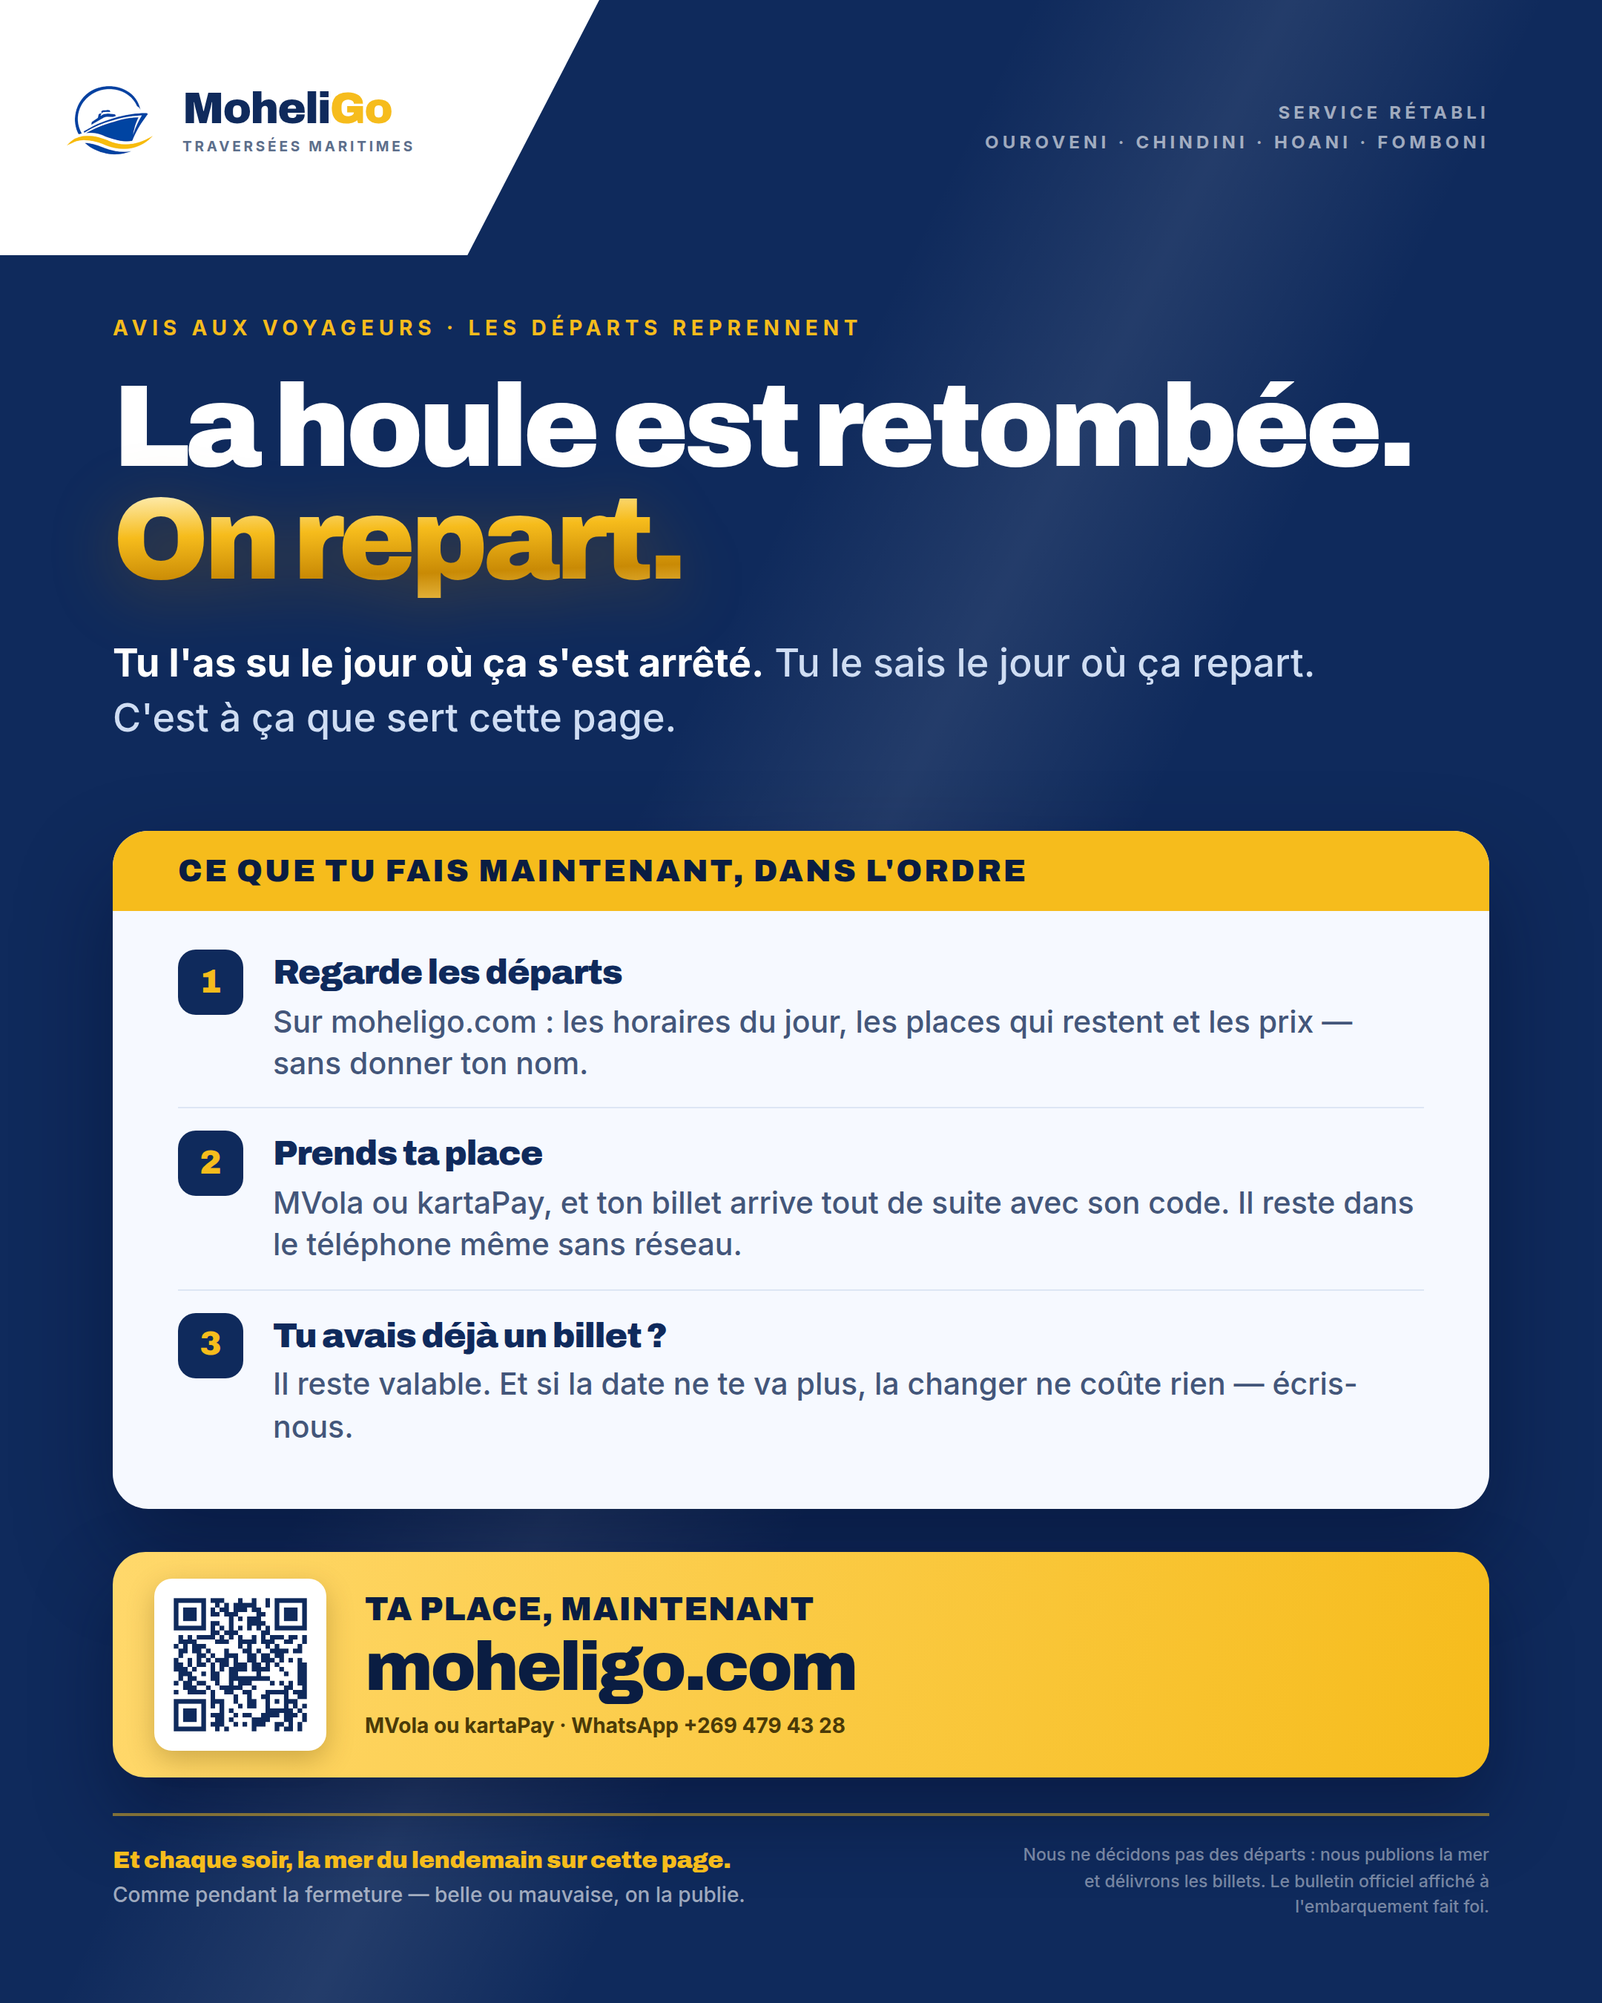
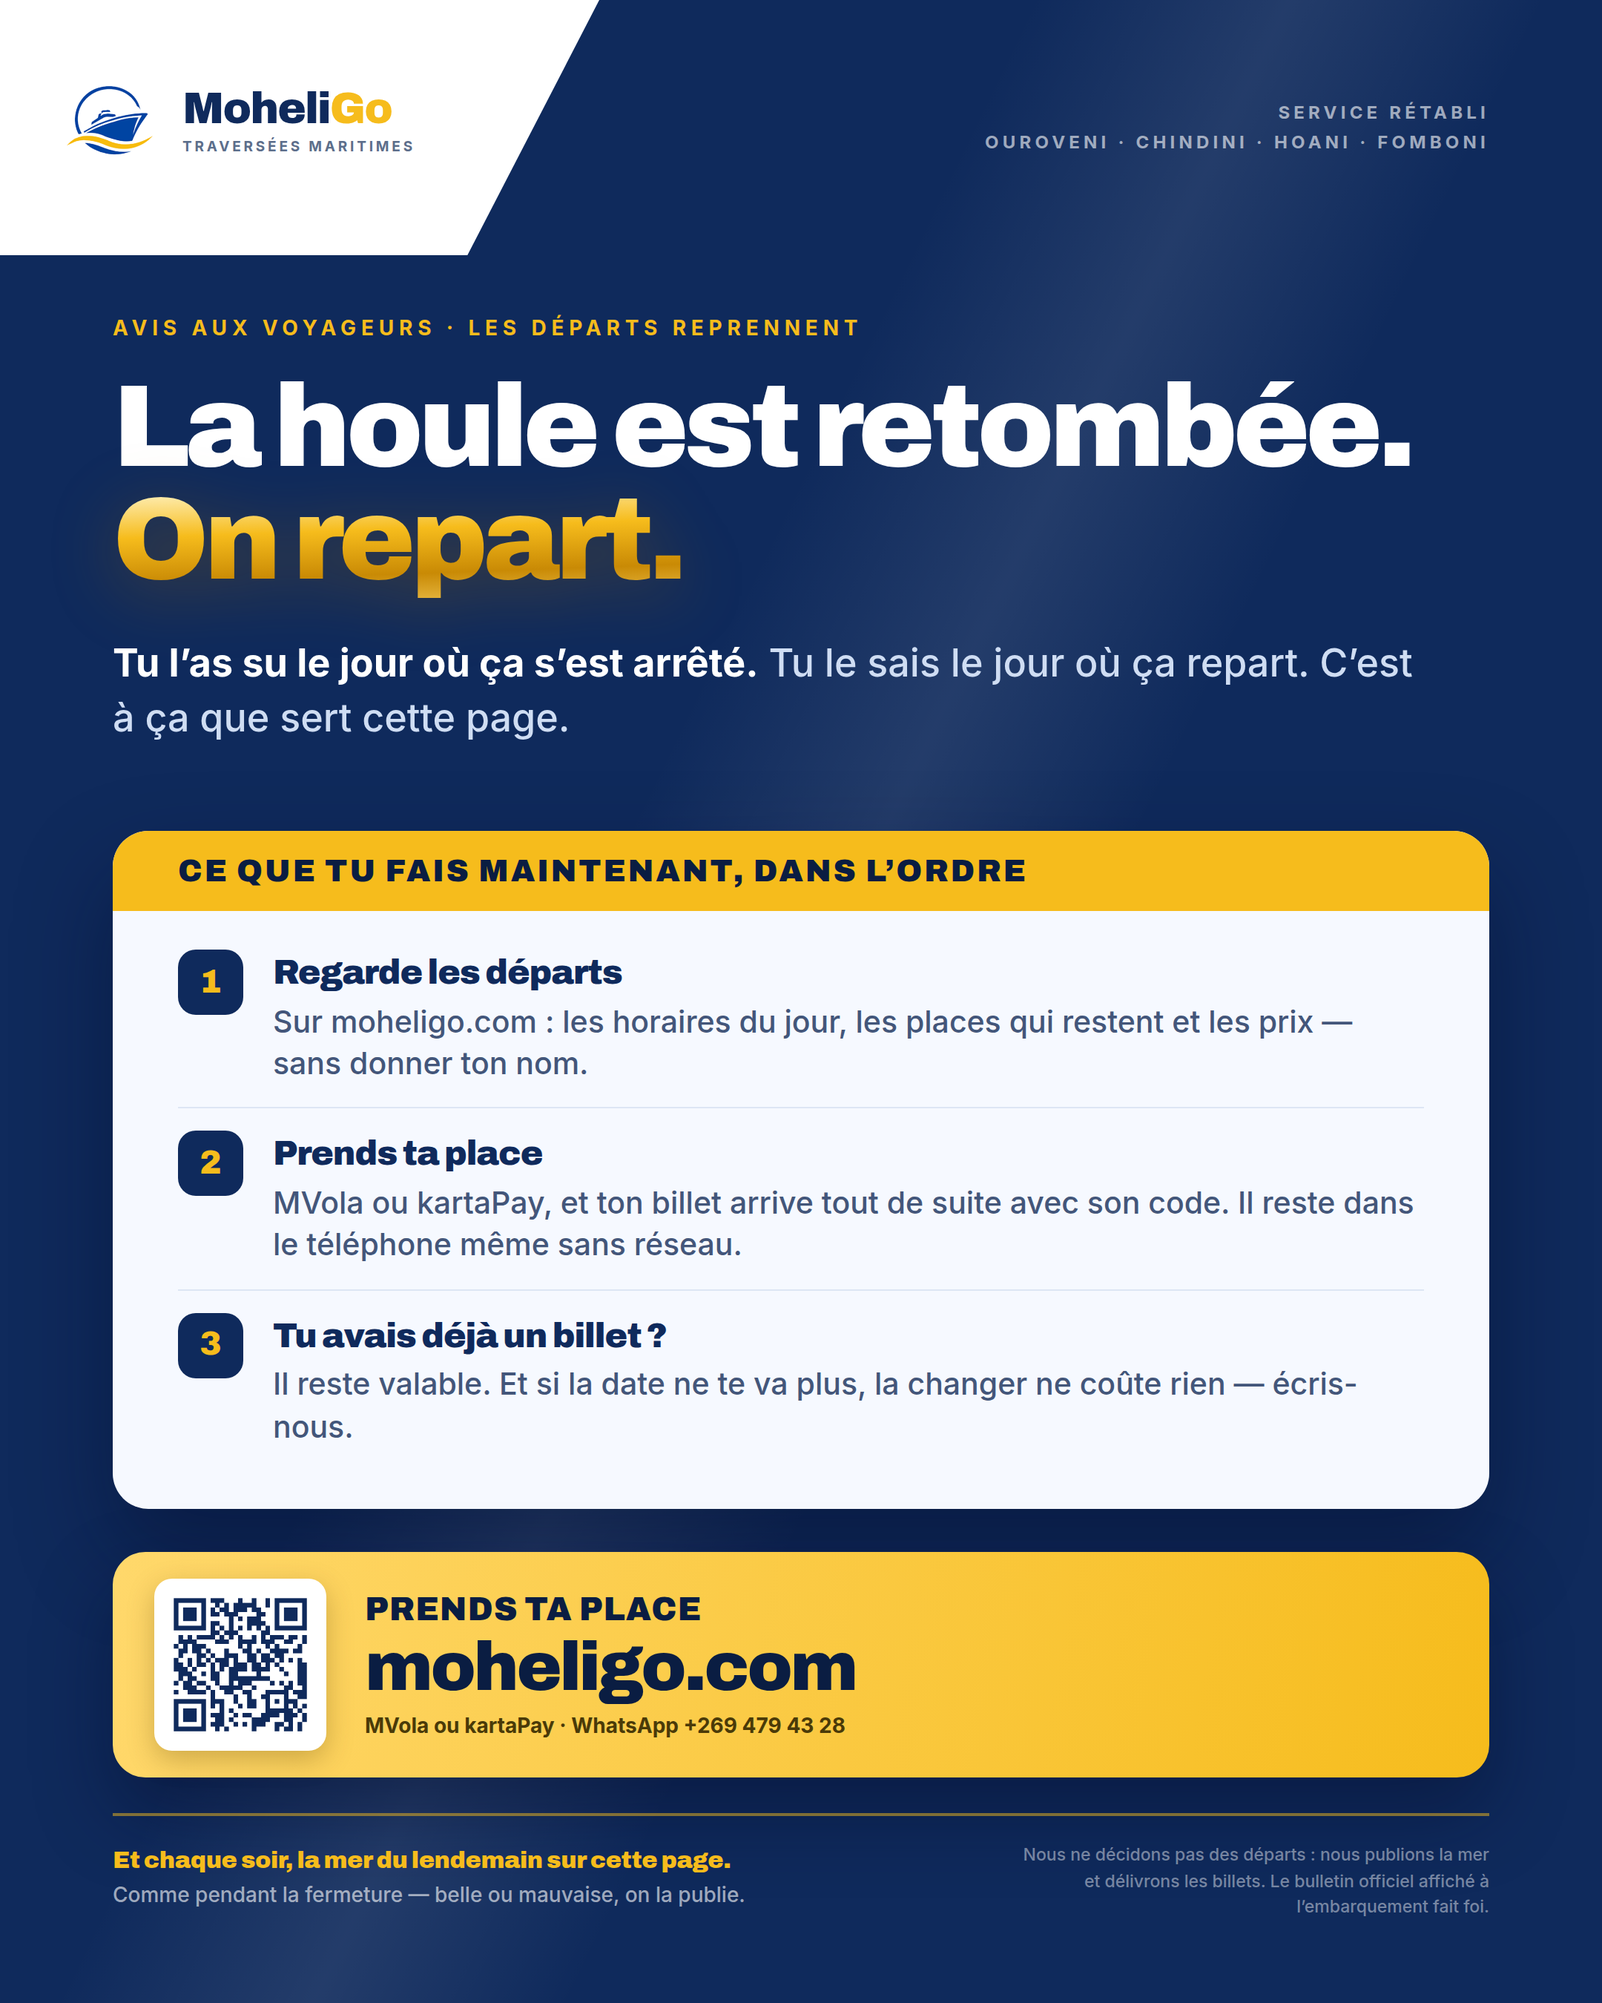
Le service est ROUVERT : un seul interrupteur, et tout suit
Le patron, 01/09/2026 : « les traversees sont ouvertes ». Fermeture du 26/08 au
01/09, sept jours — la plus longue des deux de l'ete.

OUVERT = True suffit : la mention de fermeture disparait de toutes les
publications, le bandeau du bulletin redevient « RESERVE POUR DEMAIN », le
premier commentaire redevient commercial, la video Young Leader cesse d'etre
bloquee. C'est exactement pourquoi l'etat vit a un seul endroit.

Le visuel de reprise a ete MIS AUX NORMES AVANT DE SERVIR — il dormait depuis
le 12/08 et le controle l'a refuse le jour ou on en avait besoin : 5 apostrophes
droites, aucun SENTIMENT declare, et surtout aucun appel a l'action lisible (le
bandeau d'or disait « TA PLACE, MAINTENANT », qui n'est pas un verbe). Devenu
« PRENDS TA PLACE ». Un visuel garde « pret pour le jour J » n'est pas pret : la
norme bouge apres lui, et on s'en apercoit au pire moment.

Aussi : le premier commentaire du bulletin ignorait la date de reprise que le
post annoncait trois lignes plus haut — la faute du 26/08 qui recommence en plus
doux. Il tire maintenant sa phrase de la meme source, reouverture().

Claude-Session: https://claude.ai/code/session_01BYJ87ihntXtVLQBUE1Jkoy

Changed region(s): [[0.062, 0.3111, 0.8685, 0.3733], [0.2171, 0.7778, 0.4963, 0.8089]]

diff --git a/moheligo/pub/flyers/flyer32-reprise-fb.html b/moheligo/pub/flyers/flyer32-reprise-fb.html
@@ -2,6 +2,24 @@
      Le patron, 12/08/2026 : « fais un flyer de reprise alors, mais pas de date au
      cas où. Ne le donne pas au robot, donne-le-moi, je le publierai. »
 
+     SENTIMENT : LA CONFIANCE
+
+     ✅ UTILISÉ POUR DE VRAI LE 01/09/2026 — première sortie. Fermeture du 26/08
+     au 01/09, sept jours. Le patron : « les traversées sont ouvertes ».
+
+     ⬛ MIS AUX NORMES LE 01/09/2026, AVANT DE SERVIR. Il dormait depuis le 12/08
+     et le contrôle l’a refusé sur trois points le jour où on en avait besoin :
+     5 apostrophes droites, aucun SENTIMENT déclaré, et surtout **aucun appel à
+     l’action que la machine puisse lire** — le bandeau d’or disait « TA PLACE,
+     MAINTENANT », qui n’est pas un verbe. C’est devenu « PRENDS TA PLACE ».
+     📌 LA LEÇON : un visuel qu’on garde « prêt pour le jour J » n’est pas prêt.
+     La norme a bougé après lui ; c’est LUI qui doit la rattraper, et le seul
+     moment où on s’en aperçoit est le pire — celui où il faut publier vite.
+     ⚠ RESTE UNE RÉSERVE ASSUMÉE (alerte, pas refus) : pas de vague dorée de
+     74 px. En ajouter une obligerait à déplacer le pied de page, un jour de
+     reprise, sur le visuel le plus important du mois. On ne redessine pas dans
+     l’urgence ce qui n’est pas faux.
+
      🚨 CELUI-LÀ NE PART PAS TOUT SEUL, ET C'EST VOULU.
      Il est dans `page.py` (pour que le patron l'ait sous la main) mais **PAS dans
      `calendrier.py`** : le robot publie à heure fixe, or une reprise ne se décide
@@ -18,7 +36,7 @@
      fond s'assombrit ; le jour de la reprise, la marque reprend ses couleurs.
      Celui qui a vu les deux le comprend sans lire.
 
-     LA LIGNE QUI PORTE TOUT : « Tu l'as su le jour où ça s'est arrêté. Tu le sais
+     LA LIGNE QUI PORTE TOUT : « Tu l’as su le jour où ça s’est arrêté. Tu le sais
      le jour où ça repart. » C'est le paiement de toute la semaine d'honnêteté :
      on n'a rien vendu pendant la fermeture, donc on est cru maintenant (§ 3 du
      manuel, levier réciprocité, et § 1 : la régularité est l'actif).
@@ -101,7 +119,7 @@ body { width:1080px; height:1350px; font-family:'Inter',sans-serif; -webkit-font
 .action .qr { flex:0 0 116px; height:116px; background:#fff; border-radius:12px;
   padding:7px; box-shadow:0 6px 18px rgba(80,55,0,.28); }
 .action .qr img { width:100%; height:100%; display:block; }
-.action .scanne { font-family:'Archivo',sans-serif; font-weight:900; font-size:22px;
+.action .cta { font-family:'Archivo',sans-serif; font-weight:900; font-size:22px;
   letter-spacing:.5px; color:#0A1D42; }
 .action .adr { margin-top:4px; font-family:'Archivo',sans-serif; font-weight:900;
   font-size:46px; letter-spacing:-1.7px; color:#0A1D42; line-height:1; }
@@ -130,11 +148,11 @@ body { width:1080px; height:1350px; font-family:'Inter',sans-serif; -webkit-font
   <div class="sur">AVIS AUX VOYAGEURS · LES DÉPARTS REPRENNENT</div>
   <div class="acc">La houle est retombée.<span>On repart.</span></div>
 
-  <div class="dit"><b>Tu l'as su le jour où ça s'est arrêté.</b> Tu le sais le jour
-    où ça repart. C'est à ça que sert cette page.</div>
+  <div class="dit"><b>Tu l’as su le jour où ça s’est arrêté.</b> Tu le sais le jour
+    où ça repart. C’est à ça que sert cette page.</div>
 
   <div class="carte">
-    <div class="bande">CE QUE TU FAIS MAINTENANT, DANS L'ORDRE</div>
+    <div class="bande">CE QUE TU FAIS MAINTENANT, DANS L’ORDRE</div>
     <div class="corps">
       <ul>
         <li><em>1</em><span><b>Regarde les départs</b>Sur moheligo.com : les horaires
@@ -151,7 +169,7 @@ body { width:1080px; height:1350px; font-family:'Inter',sans-serif; -webkit-font
   <div class="action">
     <div class="qr"><img src="qr-moheligo.png" alt="QR vers moheligo.com"></div>
     <div>
-      <div class="scanne">TA PLACE, MAINTENANT</div>
+      <div class="cta">PRENDS TA PLACE</div>
       <div class="adr">moheligo.com</div>
       <div class="wa">MVola ou kartaPay · WhatsApp +269 479 43 28</div>
     </div>
@@ -161,6 +179,6 @@ body { width:1080px; height:1350px; font-family:'Inter',sans-serif; -webkit-font
     <span><b>Et chaque soir, la mer du lendemain sur cette page.</b><br>
       Comme pendant la fermeture — belle ou mauvaise, on la publie.</span>
     <span class="d">Nous ne décidons pas des départs : nous publions la mer et
-      délivrons les billets. Le bulletin officiel affiché à l'embarquement fait foi.</span>
+      délivrons les billets. Le bulletin officiel affiché à l’embarquement fait foi.</span>
   </div>
 </div>

diff --git a/moheligo/pub/flyers/service.py b/moheligo/pub/flyers/service.py
@@ -17,10 +17,17 @@ Donc : `programme.py` et `bulletin.py` consultent CE fichier avant de publier.
 Fermé → aucun message commercial ne part. Rien d'autre à penser, rien à
 désactiver à la main, aucun interrupteur à oublier.
 
-⚠ CE QU'ON N'ÉCRIT JAMAIS : « les traversées reprennent mardi ». Le patron a dit
-« ouverture POSSIBLE mardi ». Une date annoncée puis non tenue fait plus de mal
-que pas de date du tout. On écrit « peut-être mardi », et on renvoie vers le
-WhatsApp pour la réponse du jour.
+⚠ CE QU'ON N'ÉCRIT JAMAIS : « les traversées REPRENNENT mardi » — un présent qui
+affirme. Une date annoncée puis non tenue fait plus de mal que pas de date du
+tout. On reprend le mot exact du patron, ni plus fort ni plus faible :
+  · 12/08, « ouverture POSSIBLE mardi »  → on écrivait « peut-être mardi » ;
+  · 30/08, « la réouverture est PRÉVUE Mardi » → on écrit « c'est prévu mardi ».
+Et dans les deux cas la phrase de prudence reste collée derrière : c'est la mer
+qui décide, on ne décide pas des départs.
+📌 UNE SEULE SOURCE : `FERMETURE['reouverture_possible']`, lue par
+`reouverture()`, `paragraphe_reprise()` et `mention_fermeture()`. Rien qui parle
+de la reprise ne s'écrit ailleurs — deux fois (26/08 et 30/08) la faute est
+venue d'un texte de reprise qui vivait dans son coin.
 
 📌 CE QUI PART PENDANT LA FERMETURE — révisé le 13/08/2026 sur décision du
 patron (« les pubs continuent même si c'est fermé jusqu'à mardi ») :
@@ -57,21 +64,31 @@ import argparse
 import datetime
 
 # --- l'état du service ------------------------------------------------------
-# 🔴 REFERMÉ le MERCREDI 26/08/2026. Le patron : « les liaisons maritimes sont
-# fermées, la mer est agitée. »
-# ⚠ AUCUNE DATE CETTE FOIS. Le 12/08 il avait dit « ouverture possible mardi » ;
-# ici il n'a rien dit de tel, donc on n'écrit NULLE PART une date de reprise,
-# et on n'en invente pas une par analogie avec la fermeture précédente.
+# 🟢 ROUVERT LE MARDI 01/09/2026. Le patron, mot pour mot : « les traversées sont
+# ouvertes ». La reprise était prévue ce jour-là depuis le 30/08 : elle a eu lieu.
+# 📌 SEPT JOURS DE FERMETURE (26/08 → 01/09), la plus longue des deux de l'été.
+# Ce qui repart tout seul en passant cette ligne à True : la mention de fermeture
+# disparaît de toutes les publications, le bandeau du bulletin redevient
+# « RÉSERVE POUR DEMAIN », le premier commentaire redevient commercial, et la
+# vidéo Young Leader cesse d'être bloquée. **Un seul interrupteur, exprès.**
+#
+# 🔴 Historique : REFERMÉ le MERCREDI 26/08/2026. Le patron : « les liaisons
+# maritimes sont fermées, la mer est agitée. »
+# ⚠ PENDANT QUATRE JOURS, AUCUNE DATE : il n'avait rien dit, donc on n'écrivait
+# nulle part une date de reprise, et on n'en inventait pas une par analogie avec
+# la fermeture précédente. ✅ Le 30/08 au soir il en a donné une — voir
+# `reouverture_possible` ci-dessous. La règle n'a pas changé : on n'invente pas,
+# on attend qu'il parle.
 #
 # 🗄 Précédente fermeture : du 12 au 18/08/2026, six jours, même cause (mer
 # agitée). Deuxième épisode en quinze jours — c'est la saison, et c'est
 # exactement pourquoi le bulletin du soir vaut plus que n'importe quelle
 # publicité : il est le seul endroit où l'on dit la vérité tous les jours.
-OUVERT = False
+OUVERT = True
 
 FERMETURE = dict(
     depuis='2026-08-26',
-    jusqu_au=None,             # inconnue — et on ne la devine pas
+    jusqu_au='2026-09-01',     # rouvert ce jour-là, confirmé par le patron
     # Ce que le patron a dit, mot pour mot, sans l'arrondir :
     annonce="les liaisons maritimes sont fermées, la mer est agitée",
     # ✅ RENSEIGNÉ LE 30/08/2026 À 19H30. Le patron, mot pour mot :
@@ -321,14 +338,46 @@ def commentaire_bulletin():
     Il vit ici, avec l'état du service, pour la même raison que `cta_bulletin` :
     **on ne peut pas changer l'un en oubliant l'autre.** Tout ce qui promet une
     traversée doit être dans ce fichier, jamais écrit en dur ailleurs.
+
+    🚩 30/08/2026 — LA MÊME FAUTE A FAILLI RECOMMENCER, EN PLUS DOUX.
+    Le post du soir annonçait « QUAND ÇA REPREND : C’EST PRÉVU MARDI » et ce
+    commentaire, trois lignes plus bas, disait encore « la reprise dès qu’elle
+    est décidée » — comme si on n’avait toujours pas de date. Ce n’est pas un
+    mensonge, c’est pire à sa manière : le même envoi ne se souvient pas de ce
+    qu’il vient de dire. 📌 Il tire donc sa phrase de la MÊME source que le
+    post : `reouverture()`.
+    ✍ Et il portait une apostrophe droite dans `qu\\'elle` — échappée, donc
+    invisible au détecteur qui cherchait une lettre avant l’apostrophe.
+    **Une faute qu’un contrôle ne peut pas voir est une faute qui reste.**
     """
     if ouvert():
         return ('Ta traversée de demain : moheligo.com\n'
                 'WhatsApp : +269 479 43 28')
-    return ('Les départs sont suspendus : la mer, chaque soir, ici — et la '
-            'reprise dès qu\'elle est décidée.\n'
-            'Un billet déjà pris ? Changement de date gratuit.\n'
-            'moheligo.com — WhatsApp : +269 479 43 28')
+    return ('Les départs sont suspendus : la mer, chaque soir, ici — %s\n'
+            'Un billet déjà pris ? Changement de date gratuit.\n'
+            'moheligo.com — WhatsApp : +269 479 43 28' % reouverture())
+
+
+def reouverture():
+    """La reprise, en UNE phrase, tirée d’un seul endroit.
+
+    Tout ce qui parle de la reprise passe par ici : le post du soir (via
+    `paragraphe_reprise`), le premier commentaire, la mention des publications
+    commerciales. Le 26/08, une date écrite en dur avait survécu à la fermeture
+    suivante ; le 30/08, un commentaire ignorait une date que le post annonçait.
+    Les deux fois, la cause est la même : **la reprise vivait à plusieurs
+    endroits.**
+    """
+    d = FERMETURE.get('reouverture_possible')
+    if not d:
+        return 'et la reprise dès qu’elle est décidée.'
+    d = datetime.date.fromisoformat(d)
+    aujourdhui = datetime.date.today()
+    if aujourdhui < d:
+        return 'et la reprise, prévue %s, dès qu’elle est confirmée.' % JOURS[d.weekday()]
+    if aujourdhui == d:
+        return 'et la reprise, prévue aujourd’hui, dès qu’elle est confirmée.'
+    return 'et la reprise dès qu’elle est décidée.'
 
 
 def etat(jour=None):

diff --git a/moheligo/pub/flyers/page.py b/moheligo/pub/flyers/page.py
@@ -325,29 +325,29 @@ moheligo.com — WhatsApp +269 479 43 28
          note="⚠ <b>PAS dans le robot</b> — c'est toi qui le publies<br>le jour où les vedettes repartent vraiment<br>aucune date dans l'image : il resservira<br>le seul visuel d'avis avec un appel complet<br>QR vérifié vers moheligo.com",
          texte="""LA HOULE EST RETOMBÉE. ON REPART.
 
-Les traversées reprennent aujourd'hui entre nos ports.
+Les traversées reprennent aujourd’hui entre nos ports.
 
-Tu l'as su le jour où ça s'est arrêté. Tu le sais le jour où ça repart — c'est à
+Tu l’as su le jour où ça s’est arrêté. Tu le sais le jour où ça repart — c’est à
 ça que sert cette page.
 
-CE QUE TU FAIS MAINTENANT, DANS L'ORDRE.
+CE QUE TU FAIS MAINTENANT, DANS L’ORDRE.
 1. Regarde les départs du jour sur moheligo.com : les horaires, les places qui
    restent et les prix, sans avoir à donner ton nom.
 2. Prends ta place : MVola ou kartaPay, et ton billet arrive tout de suite avec
    son code. Il reste dans le téléphone même sans réseau.
 3. Tu avais déjà un billet ? Il reste valable. Et si la date ne te va plus, la
-   changer ne coûte rien — écris-nous, on s'en occupe.
+   changer ne coûte rien — écris-nous, on s’en occupe.
 
-MERCI D'AVOIR ATTENDU.
+MERCI D’AVOIR ATTENDU.
 On ne décide pas des départs, on décide seulement de te dire les choses au
-moment où on les sait. C'est ce qu'on a fait pendant la fermeture, et c'est ce
-qu'on fera la prochaine fois.
+moment où on les sait. C’est ce qu’on a fait pendant la fermeture, et c’est ce
+qu’on fera la prochaine fois.
 
 Et chaque soir, la mer du lendemain sur cette page. Belle ou mauvaise.
 
 moheligo.com — WhatsApp +269 479 43 28
 
-Le bulletin officiel affiché à l'embarquement fait toujours foi.
+Le bulletin officiel affiché à l’embarquement fait toujours foi.
 
 #MoheliGo #Comores #Mohéli #Traversée #Ouroveni #Hoani"""),
     dict(png='flyer-suspension-facebook.png', titre='⛔ SERVICE SUSPENDU',
